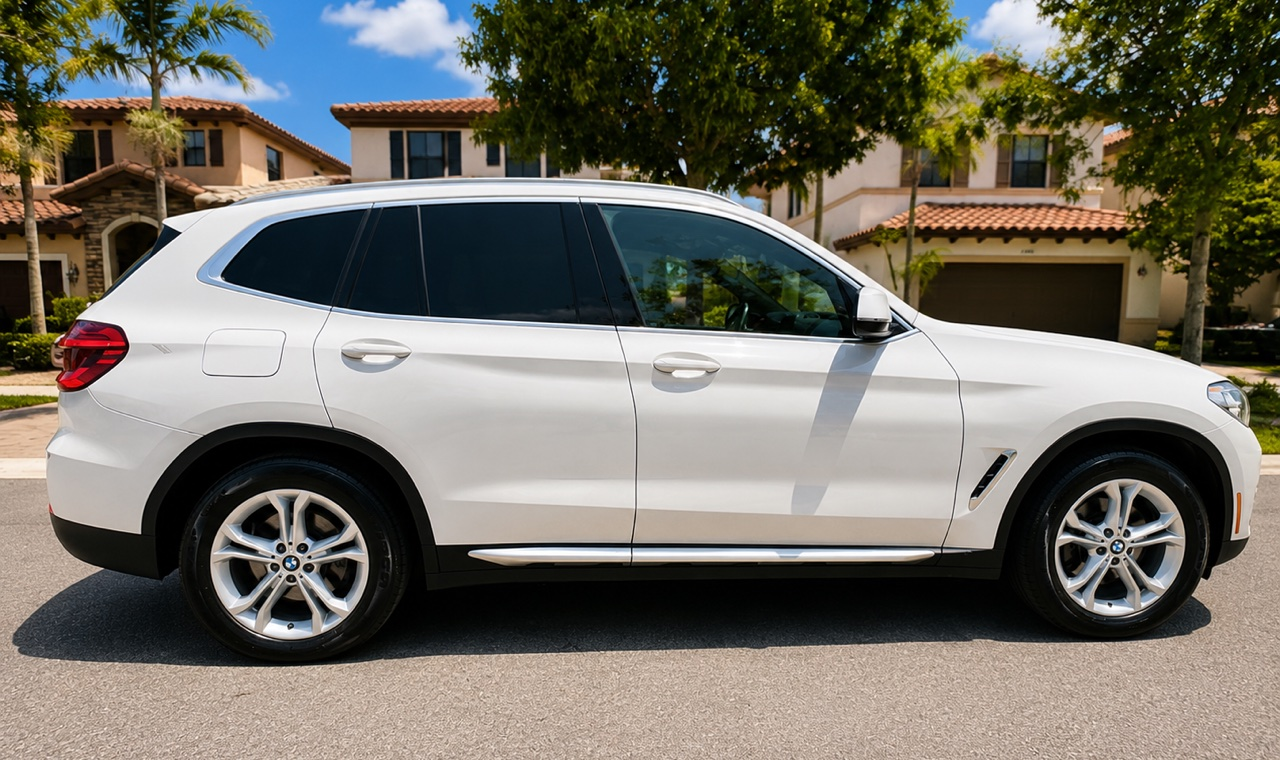
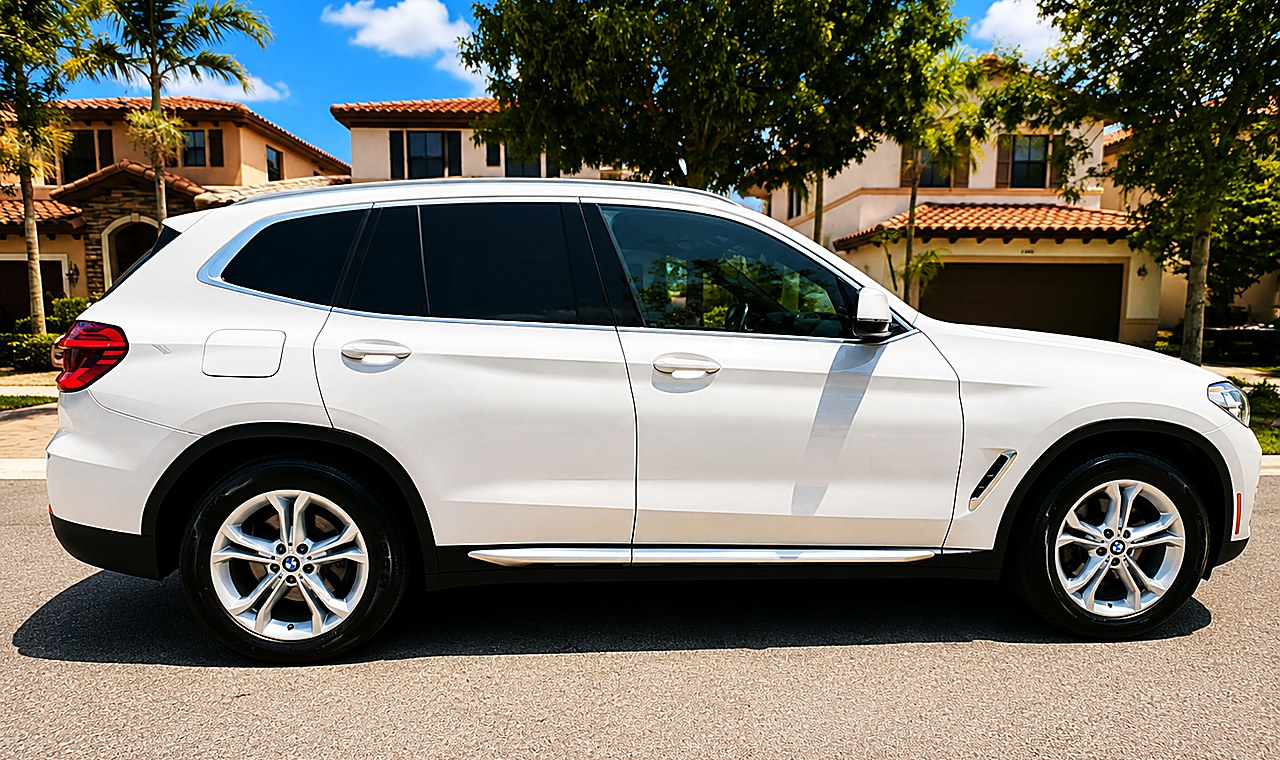
X3 photos: stronger showroom grade; bump card thumb cache version to 3
Regenerated all 2020-bmw-x3 storage photos (01-08 + card.jpg) with a visible
grade — S-curve contrast, saturation lift, white-balanced/brightened interiors.
Gallery URLs in the DB now carry ?v=3; CARD_THUMB_VERSION 2 -> 3 refetches the
regenerated card.jpg past the long-lived image cache. Static catalog bmw-x3.jpg
re-exported with the same grade.

diff --git a/components/LiveVehicleCard.tsx b/components/LiveVehicleCard.tsx
@@ -12,7 +12,7 @@ import { formatCurrency } from '@/lib/format';
  *  first photo if the thumb doesn't exist for a vehicle.
  *  The ?v tag busts the long-lived browser/CDN cache when a thumb is
  *  re-encoded — bump it whenever card.jpg files are regenerated. */
-const CARD_THUMB_VERSION = '2';
+const CARD_THUMB_VERSION = '3';
 function cardThumbUrl(photo: string): string {
   return photo.replace(/\/[^/]+$/, `/card.jpg?v=${CARD_THUMB_VERSION}`);
 }